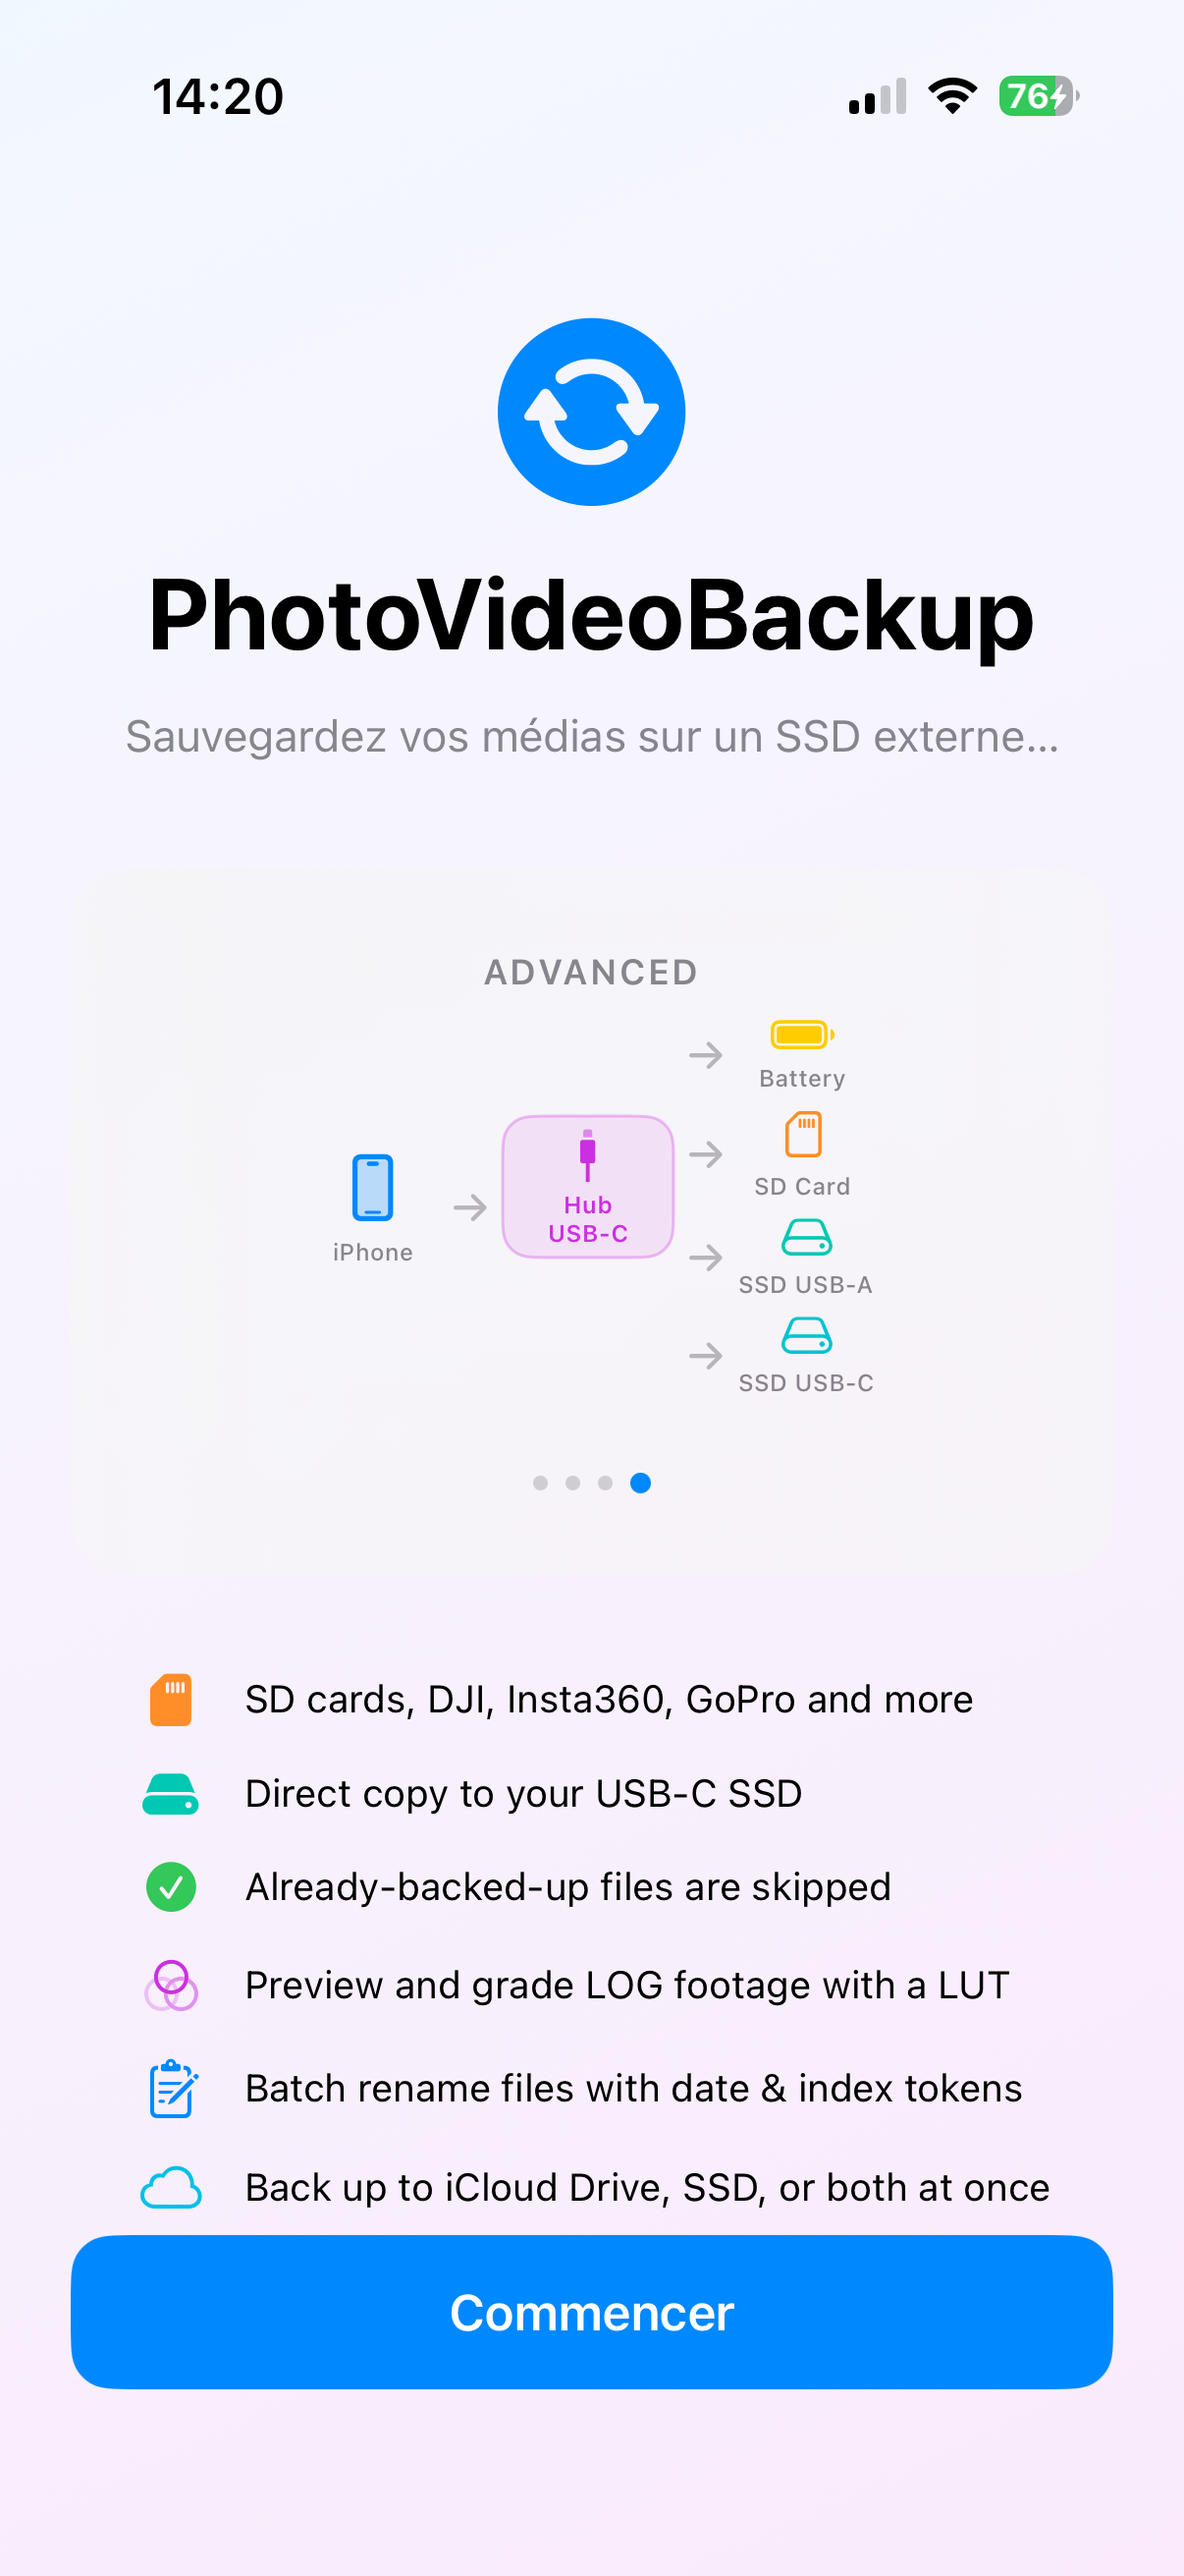
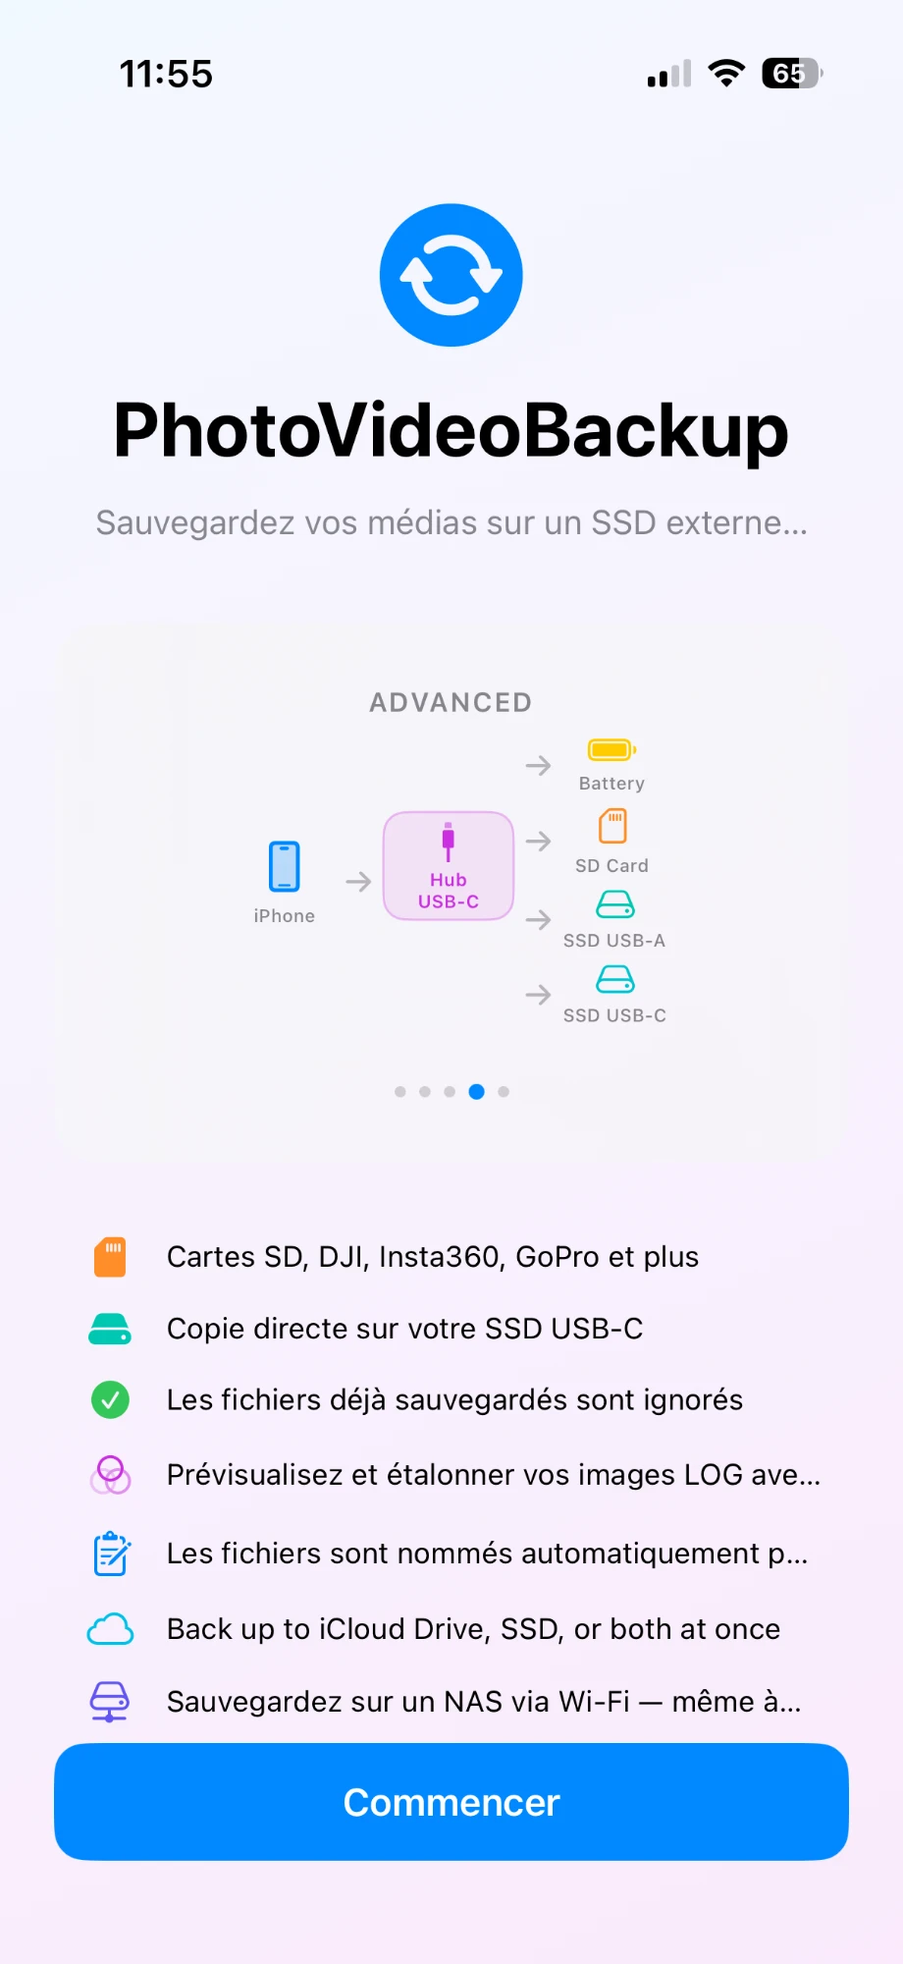
Refresh screenshots and docs for 2.6.0
- Onboarding (simple, hub, iCloud+SSD, advanced) and a new NAS page show the
  current feature bullets; settings (empty, configured) show File naming; Browse
  (device folders, date folders, file list) show the profile names.
- Removed browse_rename_sheet.png (the rename sheet no longer exists).
- index.md / UserGuide.md captions updated; the NAS onboarding page added.
Screenshots are 920x2000 copies, to be replaced by the 1206x2622 originals.

diff --git a/index.md b/index.md
@@ -83,6 +83,8 @@ When you open PhotoVideoBackup for the first time, a welcome screen gives you an
 
 ![Onboarding — Advanced setup: iPhone → Hub → Battery + SD Card + two SSDs](images/onboarding_advanced.png)
 
+![Onboarding — NAS: iPhone → Wi-Fi / VPN → NAS](images/onboarding_nas.png)
+
 iOS will then ask for permission to access your photo library.
 
 Tap **Allow Full Access**. Without this permission, the app cannot read your photos and videos.
@@ -324,7 +326,9 @@ Tap a device folder to open it. At the top you will see a **LUT Grade** section 
 
 Tap a date to open the media grid for that day: a gallery of thumbnails for all the files copied on that date. Photos show a preview; videos show a thumbnail with a play icon.
 
-![Browse — media grid](images/browse_media_grid.png)
+![Browse — the files of a date folder, named by the naming profile](images/browse_media_grid.png)
+
+On a NAS the files of a day appear as a list instead of a thumbnail grid. With the **File naming** profile turned on, each name is the one the profile gave the file when it was copied (here `2026-09-21 11H4… LunaUltra.mp4`).
 
 Tap a photo to view it full size. Tap a video to play it in full-screen with transport controls.
 

diff --git a/Documentation/UserGuide.md b/Documentation/UserGuide.md
@@ -291,7 +291,9 @@ Tap a device folder to open it. At the top you will see a **LUT Grade** section 
 
 Tap a date to open the media grid for that day: a gallery of thumbnails for all the files copied on that date. Photos show a preview; videos show a thumbnail with a play icon.
 
-![Browse — media grid](images/browse_media_grid.png)
+![Browse — the files of a date folder, named by the naming profile](images/browse_media_grid.png)
+
+On a NAS the files of a day appear as a list instead of a thumbnail grid. With the **File naming** profile turned on, each name is the one the profile gave the file when it was copied (here `2026-09-21 11H4… LunaUltra.mp4`).
 
 Tap a photo to view it full size. Tap a video to play it in full-screen with transport controls.
 
